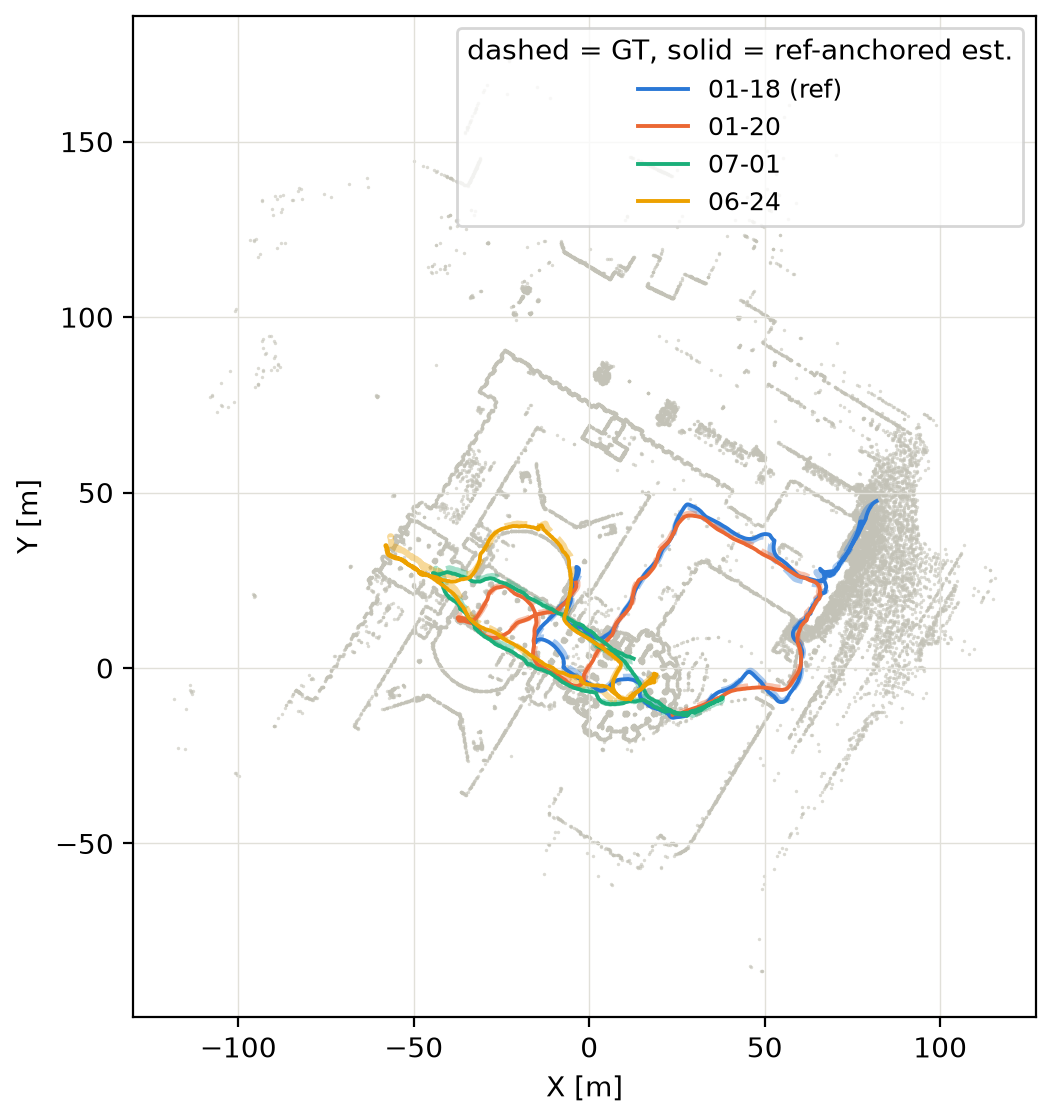
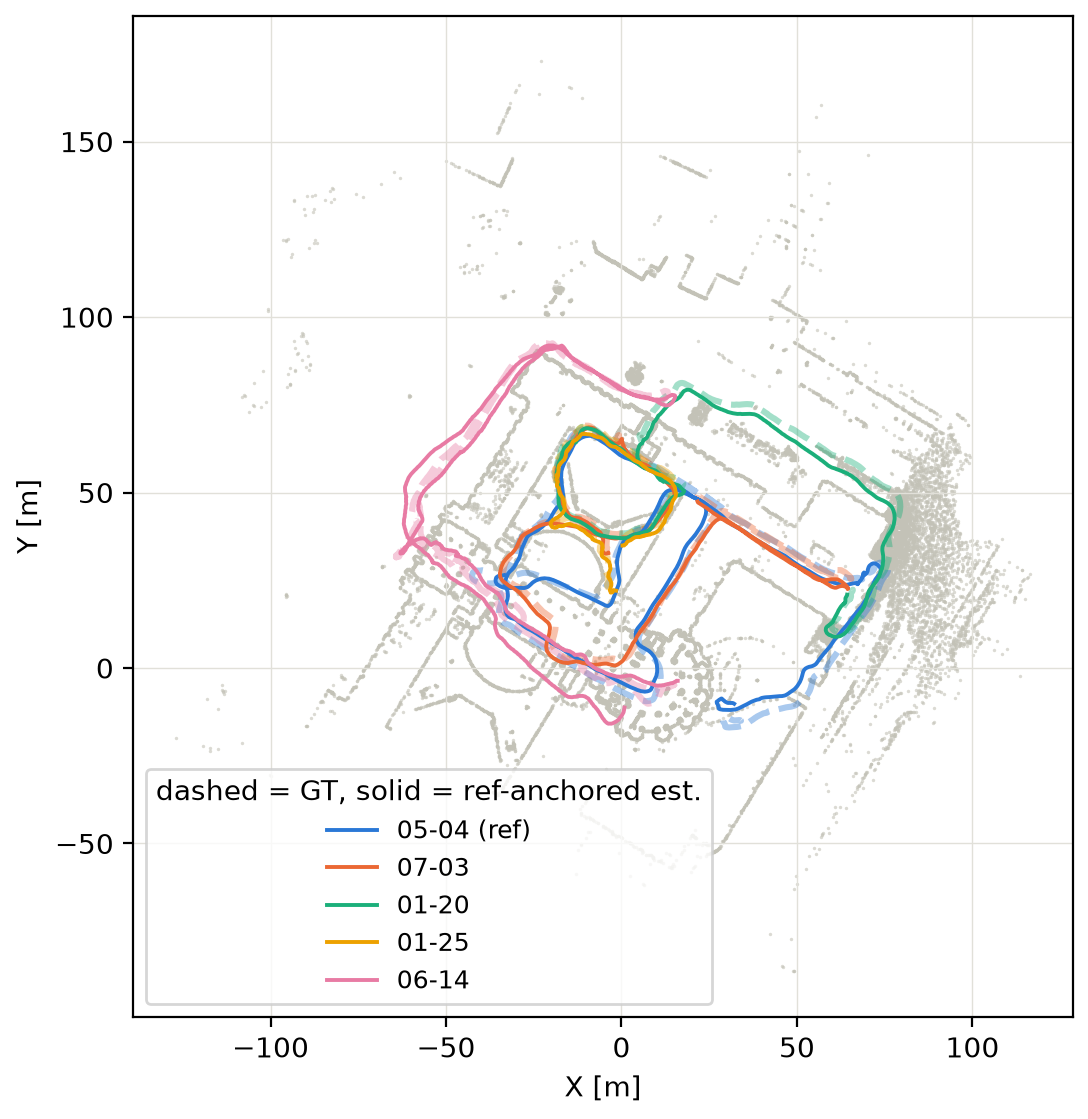
Rewrite HGE Main Experiments with real updated report data
The live polygraph report picked up substantial real changes since the last
sync: a completely new, real 5-session iOS pool (replacing the old 4-session
ios_split set), a dedicated iOS-only ATE+ref-anchored table (honest negative
result, multi-session barely moves ATE), and a real cross-resolution
matching bug found and fixed (HoloLens 480x640 vs iOS 1440x1920 was
producing near-zero cross-device matches; downsampling the higher-res side
fixed it) that lets a mixed HoloLens+iOS graph genuinely bridge 8 of 10
sessions into 2 real cross-device components, a substantial ref-anchored
win for 3 of 5 iOS sessions.

Restructured the HGE subsection into three tables matching the report's own
structure (HoloLens / iOS-only / iOS+HoloLens-mixed) instead of the old
combined ATE+anchoring pair, which was built around the stale data. HoloLens
numbers themselves are unchanged.

Regenerated the iOS trajectory grid and both iOS ref-anchoring figures with
the real new session pool and real local run directories
(hge_ios_single/hge_ios_multi). The mixed HoloLens+iOS run itself executed
on the group's Euler cluster and isn't available locally, so no matching
visualization for that table, noted in the caption. The Datasets-section
HGE iOS GT figure turns out to already have used this same real 5-session
pool, so no regeneration needed there, the earlier "stale 5-session pick"
caveat in the appendix was itself the stale part and has been removed.

diff --git a/sections/04_experiments.tex b/sections/04_experiments.tex
@@ -320,106 +320,120 @@ output, both backbones) is in \mysecref{sec:appendix-kitti-traj}.
 \subsection{HGE}
 \label{sec:experiments-main-hge}
 
-HoloLens and iPad sessions, evaluated both device-isolated (5 vs. 5, cross-session edges only
-within one device) and mixed (all 10 sessions in one graph, cross-session edges allowed across
-devices too), against native HoloLens/ARKit odometry, since regenerated ORB-SLAM3/VINS-Fusion
-odometry failed on this dataset outright and no external per-session baseline exists. Reports
-both ATE and ref-anchored error (translation and rotation) per session, grouped by which
-connected component each session ends up in.
+HoloLens and iPad sessions, evaluated device-isolated (HoloLens alone, iOS alone) and mixed (both
+devices in one graph), against native HoloLens/ARKit odometry, since regenerated
+ORB-SLAM3/VINS-Fusion odometry failed on this dataset outright and no external per-session
+baseline exists. Reports both ATE and ref-anchored error (translation and rotation) per session,
+grouped by which connected component each session ends up in.
 
 \begin{table}[htb]
   \centering
   \footnotesize
-  \begin{tabular*}{\textwidth}{@{\extracolsep{\fill}} llrr}
+  \begin{tabular*}{\textwidth}{@{\extracolsep{\fill}} llrrrrr}
   \hline
-  \textbf{Session} & \textbf{Group} & \textbf{Ref-anch. trans (m)} & \textbf{Ref-anch. rot (\textdegree)} \\
+  \textbf{Session} & \textbf{Group} & \textbf{Raw} & \textbf{Single} & \textbf{Multi} & \textbf{Ref-anch. trans (m)} & \textbf{Ref-anch. rot (\textdegree)} \\
   \hline
-  \multicolumn{4}{l}{\textit{HoloLens}} \\
-  \texttt{hl\_139} (ref) & A & -- & -- \\
-  \texttt{hl\_568} & A & 0.30 & 0.89 \\
-  \texttt{hl\_996} & A & 0.39 & 0.57 \\
-  \texttt{hl\_295} (ref) & B & -- & -- \\
-  \texttt{hl\_693} & B & 0.26 & 0.58 \\
+  \texttt{hl\_996} & A & \textbf{0.32} & \textbf{0.32} & \textbf{0.32} & 0.39 & 0.57 \\
+  \texttt{hl\_139} (ref) & A & 0.53 & \underline{0.51} & \textbf{0.44} & -- & -- \\
+  \texttt{hl\_693} & B & \textbf{0.22} & \textbf{0.22} & \textbf{0.22} & 0.26 & 0.58 \\
+  \texttt{hl\_295} (ref) & B & \underline{0.13} & \textbf{0.12} & \textbf{0.12} & -- & -- \\
+  \texttt{hl\_568} & A & \underline{2.09} & \underline{2.09} & \textbf{0.29} & 0.30 & 0.89 \\
   \hline
-  HL Mean ($n{=}3$) & -- & 0.32 & 0.68 \\
-  \hline
-  \multicolumn{4}{l}{\textit{iOS}} \\
-  \texttt{ios\_01-18} (ref) & -- & -- & -- \\
-  \texttt{ios\_01-20} & -- & 0.66 & 0.75 \\
-  \texttt{ios\_07-01} & -- & 0.73 & 1.61 \\
-  \texttt{ios\_06-24} & -- & 1.37 & 2.76 \\
-  \hline
-  iOS Mean ($n{=}3$) & -- & 0.92 & 1.71 \\
+  Total (L2-norm, $n{=}5$) & -- & 2.19 & 2.18 & 0.67 & 0.32 (mean) & 0.68 (mean) \\
   \hline
   \end{tabular*}
-  \caption[HGE ref-anchored error, both devices]{HGE ref-anchored translation/rotation error,
-    device-isolated multi-session graphs (\texttt{hl\_split}/\texttt{ios\_split}). ATE for the
-    same sessions is in \mytabref{tab:experiments-hge-mixed}. ``(ref)'' marks each component's own
-    reference session, which has no ref-anchored value of its own. HoloLens splits into two
-    components (A, B); iOS forms one.}
-  \label{tab:experiments-hge-anchoring}
+  \caption[HGE HoloLens ATE and ref-anchored error]{HGE ATE (m), HoloLens sessions only,
+    device-isolated multi-session graph. Session identifiers abbreviated to their unique numeric
+    suffix. Bold marks the best result among Raw/Single/Multi in a row, underline the
+    second-best; ref-anchored columns are not ranked.}
+  \label{tab:experiments-hge-ate}
 \end{table}
 
-HGE's biggest single improvement is session \texttt{hl\_568}, which goes from 2.09 meters raw to
-0.29 meters multi-session (\mytabref{tab:experiments-hge-mixed}). Ref-anchored error stays small
-for HoloLens, 0.32 meters and 0.68 degrees on average. HoloLens's two components sit in genuinely
-different parts of the site and never share a cross-session edge with each other, only within
-their own component. iOS's ref-anchored error is real but looser, 0.92 meters and 1.71 degrees,
-even though iOS's own ATE numbers are smaller than HoloLens's, and its own worst session,
-\texttt{ios\_06-24}, carries the highest ref-anchored error of any HGE session. A session can have
-a tight local trajectory shape and still be placed less precisely relative to the rest of its
-component, exactly what ref-anchored error is meant to catch and ATE alone would miss.
+HoloLens's biggest single improvement is session \texttt{hl\_568}, which goes from 2.09 meters raw
+to 0.29 meters multi-session. Ref-anchored error stays small, 0.32 meters and 0.68 degrees on
+average. Its two components sit in genuinely different parts of the site and never share a
+cross-session edge with each other, only within their own component.
 
 \begin{table}[htb]
   \centering
   \footnotesize
   \begin{tabular*}{\textwidth}{@{\extracolsep{\fill}} lrrrrr}
   \hline
-  \textbf{Session} & \textbf{Raw} & \textbf{Single} & \textbf{Multi (split)} & \textbf{Multi (mixed, kf3)} & \textbf{Multi (mixed, kf4)} \\
+  \textbf{Session} & \textbf{Raw} & \textbf{Single} & \textbf{Multi} & \textbf{Ref-anch. trans (m)} & \textbf{Ref-anch. rot (\textdegree)} \\
   \hline
-  \multicolumn{6}{l}{\textit{HoloLens}} \\
-  \texttt{hl\_139} & 0.53 & \underline{0.51} & 0.44 & \textbf{0.43} & \textbf{0.43} \\
-  \texttt{hl\_568} & \underline{2.09} & \underline{2.09} & \textbf{0.29} & 0.32 & 0.32 \\
-  \texttt{hl\_996} & \textbf{0.32} & \textbf{0.32} & \textbf{0.32} & \textbf{0.32} & \textbf{0.32} \\
-  \texttt{hl\_693} & \underline{0.22} & \underline{0.22} & \underline{0.22} & \underline{0.22} & \textbf{0.21} \\
-  \texttt{hl\_295} & \underline{0.13} & \textbf{0.12} & \textbf{0.12} & 0.14 & \textbf{0.12} \\
+  \texttt{ios\_07-03} & \textbf{0.36} & \textbf{0.36} & \textbf{0.36} & 1.91 & 2.38 \\
+  \texttt{ios\_01-20} & \textbf{0.94} & \textbf{0.94} & \textbf{0.94} & 2.30 & 2.34 \\
+  \texttt{ios\_01-25} & \textbf{0.28} & \textbf{0.28} & \textbf{0.28} & 1.88 & 1.33 \\
+  \texttt{ios\_05-04} (ref) & \textbf{3.04} & \textbf{3.04} & \textbf{3.04} & -- & -- \\
+  \texttt{ios\_06-14} & \textbf{3.73} & \textbf{3.73} & \underline{3.81} & 4.72 & 4.60 \\
   \hline
-  HL Total (L2-norm, $n{=}5$) & 2.19 & 2.18 & 0.67 & 0.68 & 0.67 \\
-  HL Mean ($n{=}5$) & 0.66 & 0.65 & 0.28 & 0.29 & 0.28 \\
-  \hline
-  \multicolumn{6}{l}{\textit{iOS}} \\
-  \texttt{ios\_01-18} & \underline{0.85} & 0.78 & 0.78 & \underline{0.76} & \textbf{0.74} \\
-  \texttt{ios\_01-20} & \textbf{0.35} & \textbf{0.35} & \underline{0.36} & \underline{0.36} & \underline{0.36} \\
-  \texttt{ios\_07-01} & 0.35 & \underline{0.33} & \underline{0.33} & \textbf{0.31} & 0.32 \\
-  \texttt{ios\_06-24} & 0.67 & 0.67 & 0.67 & \underline{0.64} & \textbf{0.55} \\
-  \hline
-  iOS Total (L2-norm, $n{=}4$) & 1.19 & 1.13 & 1.13 & 1.10 & 1.04 \\
-  iOS Mean ($n{=}4$) & 0.55 & 0.53 & 0.53 & 0.52 & 0.49 \\
-  \hline
-  Combined Total (L2-norm, $n{=}9$) & 2.49 & 2.46 & 1.31 & 1.29 & 1.24 \\
-  Combined Mean ($n{=}9$) & 0.61 & 0.60 & 0.39 & 0.39 & 0.38 \\
+  Total (L2-norm, $n{=}5$) & 4.93 & 4.93 & 4.99 & 2.70 (mean) & 2.67 (mean) \\
   \hline
   \end{tabular*}
-  \caption[HGE device-isolated vs. mixed multi-session ATE]{HGE ATE (m), all 9 sessions, same
-    Raw/Single columns throughout; ``Multi (split)'' is the device-isolated \texttt{hl\_split}/
-    \texttt{ios\_split} multi-session result, ``Multi (mixed, kf3/kf4)'' additionally allows
-    HoloLens--iOS cross-session edges in one shared graph at \texttt{min\_kf\_pairs}$=3$/$4$. iOS
-    session identifiers abbreviated to their capture date. Bold marks the best result in a row,
-    underline the second-best. Ref-anchored error for the same sessions is in
-    \mytabref{tab:experiments-hge-anchoring}.}
+  \caption[HGE iOS ATE and ref-anchored error]{HGE ATE (m), iOS sessions only, device-isolated
+    multi-session graph, 5 sessions picked for real spatial overlap with each other and with the
+    HoloLens sessions (\texttt{configs/hge/hge\_ios.yaml}). Session identifiers abbreviated to
+    capture date. Bold marks the best result among Raw/Single/Multi in a row, underline the
+    second-best; ref-anchored columns are not ranked.}
+  \label{tab:experiments-hge-ios-ate}
+\end{table}
+
+iOS on its own is an honest negative result. Multi-session mode barely moves ATE off raw odometry
+at all, one session (\texttt{ios\_06-14}) even gets very slightly worse, 3.73 meters to 3.81.
+Ref-anchored error is substantially worse than HoloLens's too, 1.9 to 4.7 meters and 1.3 to 4.6
+degrees here against HoloLens's well under 0.6 meters and 1.3 degrees. Two sessions with real
+intra-session loop closures see almost no correction either. The most likely explanation, not yet
+tested, is that the near-rigid intra-session noise setting copied unchanged from HoloLens's own
+production config over-trusts ARKit's odometry, so even well-corroborated cross-session edges can
+barely move the graph solution.
+
+\begin{table}[htb]
+  \centering
+  \footnotesize
+  \begin{tabular*}{\textwidth}{@{\extracolsep{\fill}} llrrrrr}
+  \hline
+  \textbf{Session} & \textbf{Group} & \textbf{Raw} & \textbf{Multi (iOS-only)} & \textbf{Multi (+HoloLens)} & \textbf{Ref-anch. trans (m)} & \textbf{Ref-anch. rot (\textdegree)} \\
+  \hline
+  \texttt{ios\_07-03} & C (\texttt{hl\_996}) & \textbf{0.36} & \textbf{0.36} & \textbf{0.36} & 0.50 & 1.06 \\
+  \texttt{ios\_01-20} & C (\texttt{hl\_996}) & \textbf{0.94} & \textbf{0.94} & \textbf{0.94} & 0.99 & 1.03 \\
+  \texttt{ios\_01-25} & B (\texttt{hl\_295}) & \textbf{0.28} & \textbf{0.28} & \textbf{0.28} & 0.50 & 1.52 \\
+  \texttt{ios\_05-04} & C (\texttt{hl\_996}) & \textbf{3.04} & \textbf{3.04} & \textbf{3.04} & 3.84 & 5.19 \\
+  \texttt{ios\_06-14} & B (\texttt{hl\_295}) & \textbf{3.73} & \underline{3.81} & \textbf{3.73} & 5.29 & 4.81 \\
+  \hline
+  Total (L2-norm, $n{=}5$) & -- & 4.93 & 4.99 & 4.93 & 2.23 (mean) & 2.72 (mean) \\
+  \hline
+  \end{tabular*}
+  \caption[HGE iOS ref-anchoring with vs.\ without HoloLens]{Same 5 iOS sessions as
+    \mytabref{tab:experiments-hge-ios-ate}, now allowed to form cross-device edges with the 5
+    HoloLens sessions in one shared graph. Group shows which HoloLens session each iOS session's
+    component anchors to. Bold marks the best result among Raw/Multi(iOS-only)/Multi(+HoloLens) in
+    a row, underline the second-best; ref-anchored columns are not ranked.}
   \label{tab:experiments-hge-mixed}
 \end{table}
 
-Mixing HoloLens and iOS sessions into one graph does not hurt HoloLens accuracy. The HoloLens
-total stays at 0.67 to 0.68 meters across all three multi-session variants. It helps iOS accuracy
-instead. The iOS total drops from 1.13 meters device-isolated to 1.04 meters once HoloLens
-sessions are allowed to connect to it at \texttt{min\_kf\_pairs}$=4$. The combined total keeps
-improving as the threshold rises, from 1.31 meters split to 1.24 meters at
-\texttt{min\_kf\_pairs}$=4$, the setting used in production.
+Cross-device matching was failing for a real, findable reason. HoloLens's camera
+(480$\times$640) and iOS's (1440$\times$1920, roughly 9 times the pixel count) are different
+enough resolutions that the sparse matcher was finding essentially zero correspondences between
+them at native resolution, confirmed on 12 independently ground-truth-verified true
+correspondences, 9 of which got zero matches. Downsampling the higher-resolution side to the
+lower-resolution side's real detail ceiling before matching recovered real matches on 10 of the
+12. With that fix, the mixed graph genuinely bridges 8 of the 10 sessions into 2 real cross-device
+components, where it previously left iOS fully isolated. Three of the five iOS sessions get a
+real, substantial win from this. \texttt{ios\_07-03} reaches 0.50 meters and 1.06 degrees
+ref-anchored, genuinely HoloLens-production-grade accuracy, and \texttt{ios\_01-20}/\texttt{ios\_01-25}
+both improve substantially on translation too. The other two, \texttt{ios\_05-04} and
+\texttt{ios\_06-14}, do not improve. \texttt{ios\_05-04} carries a separate, still-open issue where
+its two most accurate intra-session loop closures get flagged as outliers ahead of a real, less
+accurate one, a graph-trust problem that cross-device connectivity alone cannot route around. Flat
+ATE still barely moves for any iOS session either way, since the same near-rigid intra-session
+trust that limits single-device correction limits cross-device correction too. Ref-anchored error
+is what actually shows the real placement win here, ATE alone would miss it entirely.
 
 The real per-session trajectory comparison (native odometry vs. single-session vs. multi-session
 output, both devices) is in \mysecref{sec:appendix-hge-traj}. \mysecref{sec:appendix-hge-anchor}
-shows the ref-anchoring itself, visualized against the real site scan.
+shows the ref-anchoring itself, visualized against the real site scan, for the device-isolated
+runs; the mixed HoloLens+iOS run above was executed on the group's Euler cluster and its poses
+are not available locally for a matching visualization.
 
 \subsection{HYDRO}
 \label{sec:experiments-main-hydro}

diff --git a/sections/07_appendix.tex b/sections/07_appendix.tex
@@ -20,8 +20,8 @@ per-sequence trajectory visualizations and other detailed breakdowns.
   \includegraphics[width=0.48\textwidth]{images/07_appendix/hge_ios_anchor_combined.png}
   \caption[HGE ref-anchored estimates, both devices, all sessions combined]{Both devices'
     sessions in their own shared frame, same style as \myfigref{fig:appendix-hydro-anchor-combined}.
-    Left: HoloLens. Right: iOS. Component/reference breakdown for both is in
-    \mytabref{tab:experiments-hge-anchoring}.}
+    Left: HoloLens, component/reference breakdown in \mytabref{tab:experiments-hge-ate}. Right:
+    iOS, device-isolated, reference breakdown in \mytabref{tab:experiments-hge-ios-ate}.}
   \label{fig:appendix-hge-anchor-combined}
 \end{figure}
 
@@ -30,17 +30,17 @@ per-sequence trajectory visualizations and other detailed breakdowns.
   \includegraphics[width=\textwidth]{images/07_appendix/hge_hololens_anchor_individual.png}
   \caption[HGE HoloLens ref-anchored estimate vs.\ GT, per session]{HGE HoloLens non-reference
     sessions, same methodology and layout as \myfigref{fig:appendix-hydro-anchor-individual}.
-    Component/reference breakdown is in \mytabref{tab:experiments-hge-anchoring}.}
+    Component/reference breakdown is in \mytabref{tab:experiments-hge-ate}.}
   \label{fig:appendix-hge-hololens-anchor-individual}
 \end{figure}
 
 \begin{figure}[htbp]
   \centering
   \includegraphics[width=\textwidth]{images/07_appendix/hge_ios_anchor_individual.png}
-  \caption[HGE iOS ref-anchored estimate vs.\ GT, per session]{HGE iOS non-reference sessions
-    (\texttt{ios\_split}, reference \texttt{01-18}), same methodology as
+  \caption[HGE iOS ref-anchored estimate vs.\ GT, per session]{HGE iOS non-reference sessions,
+    device-isolated (reference \texttt{05-04}), same methodology as
     \myfigref{fig:appendix-hydro-anchor-individual}. Per-panel numbers match
-    \mytabref{tab:experiments-hge-anchoring}.}
+    \mytabref{tab:experiments-hge-ios-ate}.}
   \label{fig:appendix-hge-ios-anchor-individual}
 \end{figure}
 
@@ -54,7 +54,7 @@ per-sequence trajectory visualizations and other detailed breakdowns.
   \caption[HGE trajectory grid, HoloLens sessions]{HGE trajectory grid, HoloLens sessions
     (device-isolated \texttt{hl\_split} run). Native odometry, single-session, and multi-session
     output (green) against GT (red), GT-aligned. Session \texttt{568}'s heavy native-odometry
-    drift and its multi-session correction (\mytabref{tab:experiments-hge-mixed}) are visible in
+    drift and its multi-session correction (\mytabref{tab:experiments-hge-ate}) are visible in
     the bottom row.}
   \label{fig:appendix-hge-hololens}
 \end{figure}
@@ -63,9 +63,9 @@ per-sequence trajectory visualizations and other detailed breakdowns.
   \centering
   \includegraphics[width=\textwidth]{images/07_appendix/hge_ios_grid.png}
   \caption[HGE trajectory grid, iOS sessions]{Same layout as \myfigref{fig:appendix-hge-hololens},
-    the 4 iOS/ARKit sessions of the device-isolated \texttt{ios\_split} run
-    (\mytabref{tab:experiments-hge-mixed}'s real 4-session iOS list, not the older 5-session pick
-    behind \mysecref{sec:experiments-hge}'s Datasets-section figure).}
+    the 5 iOS/ARKit sessions of the device-isolated run (\mytabref{tab:experiments-hge-ios-ate}).
+    Sessions \texttt{05-04} and \texttt{06-14} visibly drift and stay uncorrected, the same two
+    sessions that carry the dataset's worst ATE and ref-anchored error.}
   \label{fig:appendix-hge-ios}
 \end{figure}
 
@@ -385,7 +385,7 @@ results.
   \caption[HGE/HYDRO ref-anchored consistency by PE method]{Same multi-session runs as
     \mytabref{tab:ablation-pe-kitti}. Each connected component's reference session is Umeyama-fit
     to GT, that fixed transform applied to the rest of the component, then measured against each
-    session's own GT (same method as \mytabref{tab:experiments-hge-anchoring}/\mytabref{tab:experiments-hydro-ate}).
+    session's own GT (same method as \mytabref{tab:experiments-hge-ate}/\mytabref{tab:experiments-hydro-ate}).
     ``Components'' is the number of connected components the multi-session graph settled into for
     that method.}
   \label{tab:ablation-pe-anchoring}
